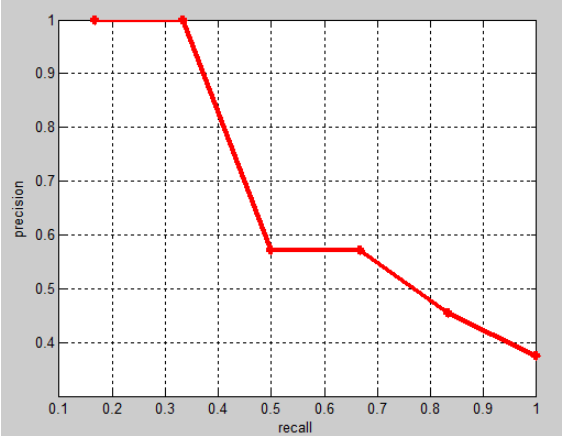
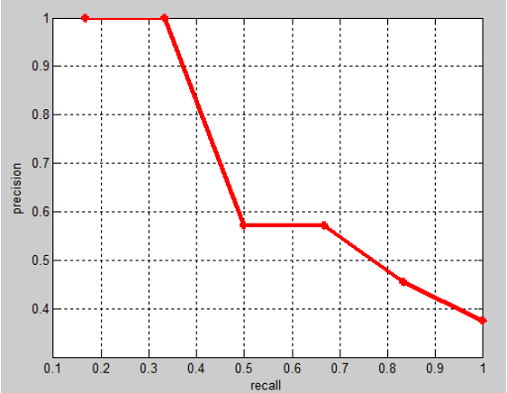
mAP

diff --git a/source/_posts/map-evaluation of object detection.md b/source/_posts/map-evaluation of object detection.md
@@ -80,11 +80,11 @@ note:
 
  假设从测试集中共检测出20个例子，而测试集中共有6个正例，则PR表如下： 
 
-<img src="mAP/PR_table.png" style="zoom:50%;" />
+![](mAP/PR_table.png)
 
 PR波形图如下
 
-<img src="mAP/PR_curve.png" style="zoom:67%;" />
+![](mAP/PR_curve.png)
 
 ## Code
 
